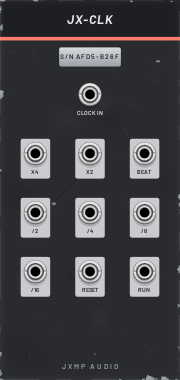
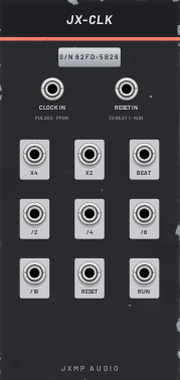
JX-CLK: RUN / SYNC / STOP and a RESET input
The run switch has three positions. RUN runs on the clock's own tempo
whatever the transport does (a pause still freezes it). SYNC follows
the transport and stops with it. STOP stands. New clocks start in RUN.
Patches made before the switch open in SYNC, so they play as before.

RESET IN (back): in RUN a trigger sends the clock back to beat 1 and
fires its RESET, keeping its own tempo. Another clock's RESET starts
both together, its /4 lines them up every bar. Ignored in SYNC and STOP.

The lessons' clocks start in RUN; lesson 5 uses the new switch. The
manual explains both, with new panel pictures.

diff --git a/plugins/JXMP/src/Clk.cpp b/plugins/JXMP/src/Clk.cpp
@@ -2,8 +2,8 @@
  * JXMP Audio modules for PatchCore
  * SPDX-License-Identifier: GPL-3.0-or-later
  *
- * JX-CLK: the master clock. Follows, in this order: pulses on CLOCK IN (e.g. Host MIDI's clock), the PatchCore
- * transport (standalone: its own; in a DAW: the host's), or its own TEMPO when RUN is on. Outputs ×4, ×2, beat,
+ * JX-CLK: the master clock. RUN / SYNC / STOP: its own TEMPO, the PatchCore transport (standalone: its own; in a
+ * DAW: the host's), or standing; pulses on CLOCK IN (e.g. Host MIDI's clock) lead in RUN and SYNC. Outputs ×4, ×2, beat,
  * /2, /4, /8, /16 with swing on ×4 and ×2, RESET on start, RUN while running. All sockets on the back.
  *
  */
@@ -16,16 +16,21 @@ namespace {
 
 namespace ck = jxmp::clock;
 
-enum Source { SRC_STOPPED, SRC_EXT, SRC_HOST, SRC_INT };
+using ck::Source;
+using ck::SRC_STOPPED;
+using ck::SRC_EXT;
+using ck::SRC_HOST;
+using ck::SRC_INT;
 
 struct Clk : engine::Module {
 	enum ParamIds { TEMPO_PARAM, RUN_PARAM, SWING_PARAM, PPQN_PARAM, NUM_PARAMS };
-	enum InputIds { CLOCK_INPUT, NUM_INPUTS };
+	enum InputIds { CLOCK_INPUT, RESET_INPUT, NUM_INPUTS };
 	enum OutputIds { ENUMS(DIV_OUTPUT, ck::kOutputs), RESET_OUTPUT, RUN_OUTPUT, NUM_OUTPUTS };
 	enum LightIds { BEAT_LIGHT, EXT_LIGHT, HOST_LIGHT, INT_LIGHT, NUM_LIGHTS };
 
 	CardinalPluginContext* const pcontext;
-	dsp::SchmittTrigger clockTrigger;
+	dsp::SchmittTrigger clockTrigger, resetInTrigger;
+	ck::FreeRun freeRun;
 	dsp::PulseGenerator resetPulse;
 	ck::StartHold startHold;
 	ck::PulseFollower follower;
@@ -40,10 +45,13 @@ struct Clk : engine::Module {
 	Clk() : pcontext(static_cast<CardinalPluginContext*>(APP)) {
 		config(NUM_PARAMS, NUM_INPUTS, NUM_OUTPUTS, NUM_LIGHTS);
 		configParam(TEMPO_PARAM, 30.f, 300.f, 120.f, "Tempo", " BPM")
-		    ->description = "Its own tempo, used when nothing is on CLOCK IN and the transport is stopped.";
+		    ->description = "Its own tempo, used in RUN.";
 		// Toggles: lever up = the highest value
-		configSwitch(RUN_PARAM, 0.f, 1.f, 0.f, "Run", {"Stop", "Run"})
-		    ->description = "Starts and stops the clock's own tempo (the transport and CLOCK IN run it by themselves).";
+		// 0 STOP, 1 SYNC, 2 RUN (ck::RunMode); new clocks start in RUN
+		configSwitch(RUN_PARAM, 0.f, 2.f, 2.f, "Mode", {"Stop", "Sync", "Run"})
+		    ->description = "RUN: runs on its own TEMPO, whatever the transport does (a pause still freezes it). "
+		                    "SYNC: follows the transport (PatchCore's own, or the DAW's) and stops with it. "
+		                    "STOP: stands. Pulses on CLOCK IN lead in RUN and SYNC.";
 		configParam(SWING_PARAM, 50.f, 75.f, 50.f, "Swing", "%")
 		    ->description = "Delays every second x4 and x2 tick: 50 % straight, 66 % triplet feel, 75 % hard shuffle.";
 		configSwitch(PPQN_PARAM, 0.f, 2.f, 2.f, "Clock in pulses per beat", {"1 (beats)", "4 (sixteenths)", "24 (MIDI clock)"})
@@ -51,6 +59,9 @@ struct Clk : engine::Module {
 		configInput(CLOCK_INPUT, "Clock in")->description =
 		    "Clock pulses, e.g. the clock output of the Host MIDI module (tempo from the DAW or a MIDI device); "
 		    "PPQN on the front says how many make one beat.";
+		configInput(RESET_INPUT, "Reset in")->description =
+		    "In RUN, a trigger sends the clock back to beat 1 (and out of its RESET), keeping its own tempo. Patch "
+		    "another clock's RESET here to start together, or its /4 to line up every bar. Ignored in SYNC and STOP.";
 		const char* names[ck::kOutputs] = {"x4", "x2", "Beat", "/2", "/4", "/8", "/16"};
 		const char* what[ck::kOutputs] = {"Sixteenth notes (swing applies)", "Eighth notes (swing applies)", "Every beat",
 		                                  "Every 2 beats", "Every 4 beats (a bar in 4/4)", "Every 8 beats", "Every 16 beats"};
@@ -63,8 +74,24 @@ struct Clk : engine::Module {
 
 	bool resetWasConnected = false;
 
+	/** Patches from before the three-way switch stored 0 = Stop, 1 = Run and followed the transport either way:
+	 * they open in SYNC, so they play as they always did */
+	json_t* dataToJson() override {
+		json_t* const rootJ = json_object();
+		json_object_set_new(rootJ, "runModes", json_integer(3));
+		return rootJ;
+	}
+
+	void fromJson(json_t* rootJ) override {
+		Module::fromJson(rootJ);
+		json_t* const dataJ = json_object_get(rootJ, "data");
+		if (!dataJ || !json_object_get(dataJ, "runModes"))
+			params[RUN_PARAM].setValue((float) ck::MODE_SYNC);
+	}
+
 	void onReset() override {
 		follower.reset();
+		freeRun.stop();
 		beats = 0.0;
 		wasRunning = false;
 	}
@@ -78,15 +105,17 @@ struct Clk : engine::Module {
 		follower.process(ext && clockTrigger.process(inputs[CLOCK_INPUT].getVoltage(), 0.1f, 1.f), dt);
 
 		const bool hostPlaying = pcontext != nullptr && pcontext->playing && pcontext->bbtValid;
+		const ck::RunMode mode = (ck::RunMode) math::clamp((int) std::round(params[RUN_PARAM].getValue()), 0, 2);
+		const Source want = ck::chooseSource(mode, ext, follower.running, hostPlaying);
 		bool started = false;
-		if (ext) {
+		if (ext && mode != ck::MODE_STOP) {
 			source = follower.running ? SRC_EXT : SRC_STOPPED;
 			beats = follower.beats();
 			started = follower.started;
 			if (follower.bpm() > 0.0)
 				shownBpm = (float) follower.bpm();
 		}
-		else if (hostPlaying) {
+		else if (want == SRC_HOST) {
 			// The transport: resync to its position on every audio block, move on per sample in between
 			if (source != SRC_HOST || pcontext->processCounter != lastProcessCounter) {
 				lastProcessCounter = pcontext->processCounter;
@@ -99,15 +128,15 @@ struct Clk : engine::Module {
 			source = SRC_HOST;
 			shownBpm = (float) pcontext->beatsPerMinute;
 		}
-		else if (params[RUN_PARAM].getValue() > 0.5f) {
+		else if (want == SRC_INT) {
 			// Patching RESET restarts the own clock too: on opening a patch the clock runs before the cables are
-			// in, so the sequencers would start at random places in the bar; the restart lines them up
-			if (source != SRC_INT || (resetConnected && !resetWasConnected)) {
-				beats = 0.0;
-				started = true;
-			}
-			else
-				beats += dt * params[TEMPO_PARAM].getValue() / 60.0;
+			// in, so the sequencers would start at random places in the bar; the restart lines them up.
+			// A trigger on RESET IN restarts it as well, at its own tempo.
+			if (source != SRC_INT)
+				freeRun.stop();
+			const bool resetIn = resetInTrigger.process(inputs[RESET_INPUT].getVoltage(), 0.1f, 1.f);
+			started = freeRun.step(dt, params[TEMPO_PARAM].getValue(), resetIn || (resetConnected && !resetWasConnected));
+			beats = freeRun.beats;
 			source = SRC_INT;
 			shownBpm = params[TEMPO_PARAM].getValue();
 		}
@@ -163,7 +192,20 @@ struct BpmDisplay : widget::TransparentWidget {
 };
 
 
+// Back: the two inputs side by side (mm)
+const float kInY = 30.f, kClockInX = 18.f, kResetInX = 42.96f;
+
 struct ClkWidget : JXMPModuleWidget {
+	/** Under the input names a short line saying what each one does */
+	void drawBackLegends(NVGcontext* const vg) override {
+		JXMPModuleWidget::drawBackLegends(vg);
+		namespace st = jxmp::style;
+		st::text(vg, mm2px(math::Vec(kClockInX, kInY + 9.8f)), "PULSES · PPQN", 5.5f, st::legendDim(), st::FONT_LABEL,
+		         NVG_ALIGN_CENTER | NVG_ALIGN_MIDDLE, 0.3f);
+		st::text(vg, mm2px(math::Vec(kResetInX, kInY + 9.8f)), "TO BEAT 1 · RUN", 5.5f, st::legendDim(), st::FONT_LABEL,
+		         NVG_ALIGN_CENTER | NVG_ALIGN_MIDDLE, 0.3f);
+	}
+
 	ClkWidget(Clk* const module) {
 		namespace st = jxmp::style;
 		setup(module, "JX-CLK", nvgRGB(0xff, 0x7f, 0x6a), 12);
@@ -180,7 +222,8 @@ struct ClkWidget : JXMPModuleWidget {
 		addChild(lcd);
 		knob(math::Vec(18.f, 51.f), Clk::TEMPO_PARAM, 14.f, st::CAP_MAIN, 30.f, 300.f,
 		     st::marks(30.f, 300.f, 30.f, 9, [](float v) { return string::f("%d", (int) v); }));
-		toggle(math::Vec(44.f, 51.f), Clk::RUN_PARAM, 2, {"RUN", "STOP"});
+		toggle(math::Vec(42.f, 51.f), Clk::RUN_PARAM, 3, {});
+		ledLegends(math::Vec(42.f, 51.f), 3, {"RUN", "SYNC", "STOP"});
 
 		// Swing and where the tempo comes from
 		section(3.f, 67.f, 54.96f, 20.f, "SWING · SOURCE");
@@ -200,7 +243,8 @@ struct ClkWidget : JXMPModuleWidget {
 		toggle(math::Vec(47.f, 104.f), Clk::PPQN_PARAM, 3, {"24", "4", "1"});
 
 		// Back: clock in, then the outputs
-		addInput(createInputCentered<PJ301MPort>(mm2px(math::Vec(30.48f, 32.f)), module, Clk::CLOCK_INPUT));
+		addInput(createInputCentered<PJ301MPort>(mm2px(math::Vec(kClockInX, kInY)), module, Clk::CLOCK_INPUT));
+		addInput(createInputCentered<PJ301MPort>(mm2px(math::Vec(kResetInX, kInY)), module, Clk::RESET_INPUT));
 		const float xs[3] = {12.f, 30.48f, 48.96f};
 		const int order[9] = {Clk::DIV_OUTPUT + 0, Clk::DIV_OUTPUT + 1, Clk::DIV_OUTPUT + 2, Clk::DIV_OUTPUT + 3, Clk::DIV_OUTPUT + 4,
 		                      Clk::DIV_OUTPUT + 5, Clk::DIV_OUTPUT + 6, Clk::RESET_OUTPUT, Clk::RUN_OUTPUT};

diff --git a/plugins/JXMP/src/dsp/Clock.hpp b/plugins/JXMP/src/dsp/Clock.hpp
@@ -110,6 +110,44 @@ static const double kPeriods[] = {0.25, 0.5, 1.0, 2.0, 4.0, 8.0, 16.0};
 constexpr int kOutputs = sizeof(kPeriods) / sizeof(kPeriods[0]);
 
 /** Swing applies to the subdivisions only (×4, ×2) */
+/** Where the clock's time comes from */
+enum Source { SRC_STOPPED, SRC_EXT, SRC_HOST, SRC_INT };
+
+/** The RUN switch, from the bottom up: STOP, SYNC (follows the transport), RUN (its own tempo) */
+enum RunMode { MODE_STOP = 0, MODE_SYNC = 1, MODE_RUN = 2 };
+
+/** STOP stands. SYNC follows the transport (standalone: PatchCore's own, in a DAW: the host's) and stands while it
+ * stands. RUN runs on its own tempo and ignores the transport, so several clocks can run apart (a pause still
+ * freezes them, as it freezes the whole engine). In SYNC and RUN pulses on CLOCK IN lead when it is patched. */
+inline Source chooseSource(RunMode mode, bool extPatched, bool extRunning, bool hostPlaying) {
+	if (mode == MODE_STOP)
+		return SRC_STOPPED;
+	if (extPatched)
+		return extRunning ? SRC_EXT : SRC_STOPPED;
+	if (mode == MODE_SYNC)
+		return hostPlaying ? SRC_HOST : SRC_STOPPED;
+	return SRC_INT;
+}
+
+/** RUN on the own tempo. RESET IN sends it back to beat 0 (a fresh start for everything after it) and keeps the
+ * tempo, so a free clock can be lined up with another one now and then: on its RESET, or every bar from its /4. */
+struct FreeRun {
+	double beats = 0.0;
+	bool running = false;
+
+	/** One sample; true when the clock (re)starts: its first sample after a stop, and every reset */
+	bool step(double dt, double bpm, bool reset) {
+		if (!running || reset) {
+			running = true;
+			beats = 0.0;
+			return true;
+		}
+		beats += dt * bpm / 60.0;
+		return false;
+	}
+	void stop() { running = false; }
+};
+
 inline bool swungOutput(int index) {
 	return index < 2;
 }

diff --git a/docs/manual/jx-clk.md b/docs/manual/jx-clk.md
@@ -2,7 +2,7 @@
 
 12 HP · JXMP Audio · [all modules](README.md)
 
-Master clock of a patch. It follows CLOCK IN if something is patched there, else the transport (the standalone's own, or the DAW's in a plugin), else its own TEMPO with RUN. Seven divisions with swing, RESET and RUN outputs.
+Master clock of a patch. RUN: it runs on its own TEMPO and ignores the transport, so two clocks can run apart. SYNC: it follows the transport (the standalone's own, or the DAW's in a plugin) and stops with it. STOP: it stands. In RUN and SYNC, pulses on CLOCK IN lead if something is patched there. Seven divisions with swing, RESET and RUN outputs.
 
 <img src="img/jx-clk-front.png" alt="JX-CLK front" height="380"> <img src="img/jx-clk-back.png" alt="JX-CLK back (sockets)" height="380">
 
@@ -13,7 +13,7 @@ Master clock of a patch. It follows CLOCK IN if something is patched there, else
 | BPM window | The tempo in use, and STOPPED while the clock stands. |
 | SOURCE LEDs | Which source runs the clock: CLOCK IN, TRANSPORT or OWN TEMPO. |
 | TEMPO | Own tempo, 30–300 BPM, used when nothing else runs the clock. |
-| RUN / STOP | Starts and stops the own tempo (the transport and CLOCK IN run it by themselves). |
+| RUN / SYNC / STOP | RUN: its own TEMPO (Space pauses it with everything else, a double Space does not restart it). SYNC: the transport's tempo and position, stopped when the transport stops. STOP: stands. Patches made before this switch open in SYNC. |
 | BEAT | LED, blinks on every beat. |
 | SWING | Delays every second x4 and x2 tick: 50 % straight, 66 % triplet feel, 75 % hard shuffle. |
 | PPQN  24 / 4 / 1 | How many CLOCK IN pulses make one beat (Host MIDI's clock gives 24). |
@@ -23,6 +23,7 @@ Master clock of a patch. It follows CLOCK IN if something is patched there, else
 | Socket | What it does |
 |---|---|
 | CLOCK IN | Clock pulses, e.g. the clock output of Host MIDI. |
+| RESET IN | In RUN, a trigger sends the clock back to beat 1, keeping its own TEMPO, and fires its RESET output. Ignored in SYNC (the transport sets the position) and STOP. See *Two clocks* below. |
 | x4, x2 | Sixteenths and eighths (swing applies), 10 V gates. |
 | BEAT | Every beat. |
 | /2, /4, /8, /16 | Every 2, 4 (a bar in 4/4), 8 and 16 beats. |
@@ -32,5 +33,21 @@ Master clock of a patch. It follows CLOCK IN if something is patched there, else
 ## How to use it
 
 - One JX-CLK drives everything: x4 → JX-EUC CLOCK, x2 → JX-SEQ CLOCK, RESET → both RESETs.
-- In a DAW it follows the host's play and tempo with nothing patched.
+- In SYNC it follows the DAW's play and tempo (or the standalone transport) with nothing patched. New clocks start in RUN: switch to SYNC to lock to Cubase.
 - Tempo-synced LFO: BEAT or /4 into JX-LFO CLOCK.
+
+## Two clocks: RESET IN
+
+A second JX-CLK in RUN runs on its own tempo, apart from the transport. RESET IN lines it up with the first one now
+and then, while it keeps its own tempo: on a reset it jumps to beat 1, gives a fresh beat at once and fires its
+RESET output, so the sequencers it drives start again with it.
+
+- **Start together.** Clock A in SYNC (follows Cubase or the standalone transport), clock B in RUN at another tempo.
+  A's RESET → B's RESET IN: on Play (and on a double Space) both start on the same beat, each at its own tempo.
+- **A polyrhythm that comes back together.** A at 120 BPM, B at 160 BPM (four of B's beats against three of A's). A's /4 → B's RESET
+  IN: the two drift apart during the bar and meet again on every downbeat of A. A's /16 instead: they meet every
+  four bars, a longer phrase.
+- **Restarting a phrase.** Any trigger works: a button, a step of JX-SEQ, JX-RND's random trigger. B starts its
+  pattern again from beat 1 whenever it comes.
+
+A reset in the middle of a beat cuts the gate that was high and starts a new one: no doubled beat.
